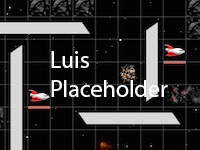
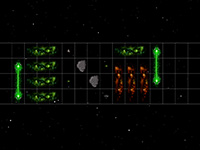
Map

diff --git a/src/resources/ImageLibrary.java b/src/resources/ImageLibrary.java
@@ -65,7 +65,8 @@ public class ImageLibrary {
 		"map4.jpg",
 		"shiptitlemenu2.png",
 		"title2.png",
-		"thegame.png"
+		"thegame.png",
+		"MPMapLuis.jpg"
 		
 		};
 	
